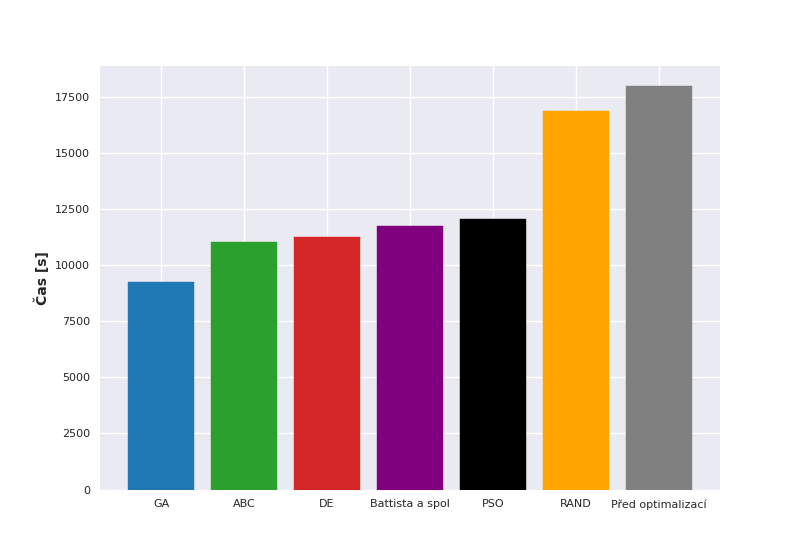
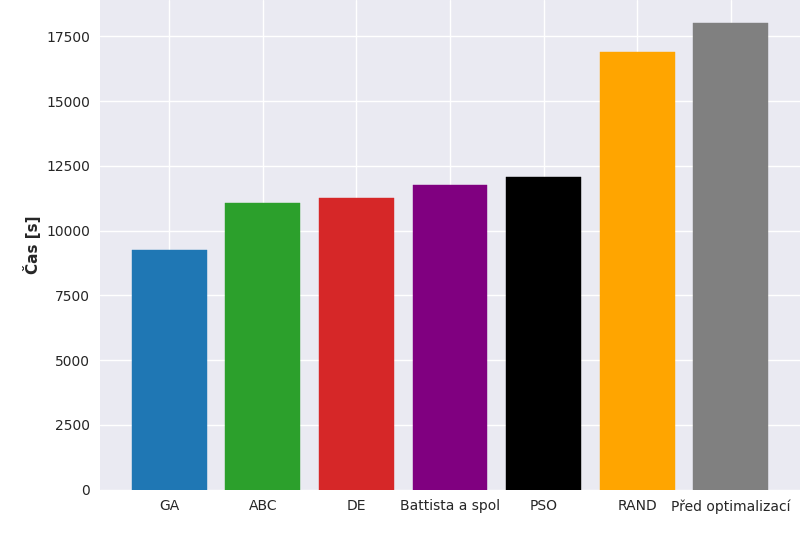
new data

diff --git a/utils/plotToolTrain.py b/utils/plotToolTrain.py
@@ -2,19 +2,12 @@ import matplotlib.pyplot as plt
 
 plt.style.use('seaborn')
 
-plt.rcParams['font.family'] = 'serif'
 plt.rcParams['font.serif'] = 'Ubuntu'
 plt.rcParams['font.monospace'] = 'Ubuntu Mono'
-plt.rcParams['font.size'] = 10
-plt.rcParams['axes.labelsize'] = 10
 plt.rcParams['axes.labelweight'] = 'bold'
-plt.rcParams['axes.titlesize'] = 10
-plt.rcParams['xtick.labelsize'] = 8
-plt.rcParams['ytick.labelsize'] = 8
-plt.rcParams['legend.fontsize'] = 10
-plt.rcParams['figure.titlesize'] = 12
 
 fig, ax = plt.subplots()
+plt.subplots_adjust(right=1, top=1, wspace=0, hspace=0)
 
 ga = [17422.3, 16349.5, 16349.5, 16272, 16272, 15869, 15869, 15869, 15584.5, 15039.3, 15039.3, 15039.3, 14757.3, 14757.3, 14757.3, 14551.8, 14551.8, 13138.4, 13138.4, 13138.4, 13138.4, 13138.4, 13138.4, 13138.4, 13138.4, 13138.4, 13138.4, 13138.4, 13014.1, 12758.4, 12758.4, 12758.4, 12758.4, 12758.4, 12713.9, 12365.9, 12204.2, 11897.7, 11897.7, 11788.3, 11546.7, 11546.7, 11481.7, 11266.8, 11265.1, 11037.5, 11037.5, 10954.6, 10606.1, 10606.1, 10606.1, 10549.5, 10549.5, 10466, 10389.4, 10389.4, 10345.8, 10345.5, 10245.7, 10245.7, 10245.7, 10212.2, 10212.2, 10212.2, 10212.2, 10212.2, 10194.4, 10194.4, 10194.4, 10194.4, 10194.4, 10174.9, 10114.4, 10114.4, 10114.4, 10114.4, 10114.4, 10114.4, 10114.4, 10114.4, 10114.4, 10102.4, 10090.3, 10089.5, 10089.5, 10089.5, 10089.5, 10077.1, 10077.1, 10077.1, 10077.1, 10077.1, 10076.7, 10076.7, 10076.7, 10076.7, 10076.7, 10076.7, 10076.7, 10076.7, 10076.7, 10076.7, 10076.7, 10076.7, 10076.7, 10076.7, 10076.7, 10076.7, 10076.7, 10076.7, 10076.7, 10076.7, 10076.7, 10076.7, 10076.7, 10076.7, 10076.7, 10076.7, 10076.7, 10076.7, 10076.7, 10076.7, 10076.7, 10076.7, 10076.7, 10076.7, 10076.7, 10076.7, 10076.7, 10076.7, 10076.7, 10076.7, 10076.7, 10076.7, 10076.7, 10076.7, 10076.7, 10076.7, 10076.7, 10076.7, 10076.7, 10076.7, 10076.7, 10070.1, 10070.1, 10070.1, 10070.1, 10070.1, 10070.1, 10069.5, 10062.3, 10062.3, 10062.3, 10062.3, 10062.3, 10062.3, 10037.6, 10037.6, 10035.6, 10035.6, 10002.9, 10002.9, 10002.9, 9959.48, 9959.48, 9958.65, 9958.65, 9958.65, 9958.65, 9928, 9928, 9928, 9928, 9928, 9928, 9918.05, 9918.05, 9918.05, 9918.05, 9918.05, 9918.05, 9918.05, 9918.05, 9918.05, 9918.05, 9918.05, 9918.05, 9918.05, 9918.05, 9918.05, 9918.05, 9918.05, 9918.05, 9918.05, 9918.05, 9918.05, 9918.05, 9918.05, 9918.05, 9918.05, 9918.05, 9918.05, 9918.05, 9918.05, 9918.05, 9918.05, 9918.05, 9918.05, 9918.05, 9898.63, 9898.63, 9898.55, 9884.98, 9884.98, 9872.45, 9855.63, 9838.88, 9838.88, 9833.65, 9827.28, 9795.5, 9791.35, 9787.35, 9781.48, 9778.03, 9778.03, 9778.03, 9774.8, 9762.48, 9761.03, 9761.03, 9742.65, 9742.65, 9741.78, 9740.28, 9740.28, 9740.28, 9739.25, 9734.23, 9734.23, 9734.23, 9734.23, 9734.23, 9734.23, 9734.23, 9734.23, 9734.23, 9734.23, 9734.23, 9734.23, 9734.23, 9734.23, 9734.23, 9734.23, 9734.23, 9734.23, 9734.23, 9734.23, 9734.23, 9734.23, 9734.23, 9734.23, 9734.23, 9734.23, 9734.23, 9734.23, 9734.23, 9734.23, 9734.23, 9734.23, 9734.23, 9734.23, 9734.23, 9734.23, 9734.23, 9734.23, 9734.23, 9734.23, 9734.23, 9734.23, 9734.23, 9734.23, 9734.23, 9734.23, 9734.23, 9734.23, 9734.23, 9734.23, 9734.23, 9734.23, 9734.23, 9734.23, 9734.23, 9734.23, 9734.23, 9734.23, 9734.23, 9734.23, 9734.23, 9734.23, 9734.23, 9734.23, 9734.23, 9734.23, 9734.23, 9734.23, 9734.23, 9734.23, 9734.23, 9734.23, 9734.23, 9734.23, 9734.23, 9734.23, 9734.23, 9734.23, 9734.23, 9734.23, 9734.23, 9734.23, 9734.23, 9734.23, 9734.23, 9734.23, 9734.23, 9734.23, 9734.23, 9734.23, 9734.23, 9734.23, 9734.23, 9734.23, 9734.23, 9734.23, 9734.23, 9734.23, 9734.23, 9734.23, 9734.23, 9734.23, 9734.23, 9734.23, 9734.23, 9734.23, 9734.23, 9734.23, 9734.23, 9734.23, 9734.23, 9734.23, 9734.23, 9734.23, 9734.23, 9734.23, 9734.23, 9734.23, 9734.23, 9734.23, 9734.23, 9734.23, 9734.23, 9734.23, 9734.23, 9734.23, 9734.23, 9734.23, 9734.23, 9734.23, 9734.23, 9727.2, 9727.2, 9724.9, 9711.05, 9707.7, 9707.7, 9707.7, 9707.7, 9707.7, 9707.7, 9707.7, 9707.7, 9707.7, 9707.7, 9707.7, 9707.7, 9707.7, 9707.7, 9707.7, 9707.7, 9707.7, 9707.7, 9707.7, 9707.7, 9707.7, 9707.7, 9707.7, 9707.7, 9707.7, 9707.7, 9707.7, 9707.7, 9707.7, 9707.7, 9707.7, 9707.7, 9707.7, 9707.7, 9707.7, 9707.7, 9707.7, 9707.7, 9707.7, 9707.7, 9707.7, 9707.7, 9706.58, 9706.58, 9706.58, 9706.58, 9706.58, 9702.68, 9702.68, 9702.68, 9702.68, 9702.68, 9702.68, 9702.68, 9702.68, 9702.68, 9702.68, 9702.68, 9702.68, 9702.68, 9702.68, 9702.68, 9702.68, 9702.68, 9702.68, 9702.68, 9702.68, 9702.68, 9702.68, 9702.68, 9702.68, 9702.68, 9702.68, 9702.68, 9702.68, 9702.68, 9702.68, 9702.68, 9702.68, 9702.68, 9702.68, 9702.68, 9702.68, 9702.68, 9702.68, 9702.68, 9702.68, 9702.68, 9702.68, 9702.68, 9702.68, 9702.68, 9702.68, 9702.68, 9702.68, 9702.68, 9702.68, 9702.68, 9702.68, 9702.68, 9702.68, 9702.68, 9702.68, 9702.68, 9702.68, 9702.68, 9702.68, 9702.68, 9702.68, 9702.68, 9702.68, 9702.68, 9702.68, 9702.68, 9702.68, 9702.68, 9702.68, 9702.68, 9702.68, 9702.68, 9702.68, 9702.68, 9702.68, 9702.68, 9702.68, 9702.68, 9700.1, 9700.1, 9700.1, 9700.1, 9700.1, 9700.1, 9700.1, 9700.1, 9700.1, 9700.1, 9700.1, 9700.1, 9700.1, 9700.1, 9700.1, 9700.1, 9700.1, 9700.1, 9700.1, 9700.1, 9700.1, 9700.1, 9700.1, 9700.1, 9700.1, 9700.1, 9700.1, 9700.1, 9700.1, 9700.1, 9700.1, 9700.1, 9700.1, 9700.1, 9700.1, 9700.1, 9700.1, 9700.1, 9700.1, 9700.1, 9700.1, 9700.1, 9700.1, 9700.1, 9700.1, 9700.1, 9700.1, 9700.1, 9700.1, 9700.1, 9700.1, 9700.1, 9700.1, 9700.1, 9700.1, 9700.1, 9700.1, 9700.1, 9700.1, 9700.1, 9689.63, 9689.63, 9689.63, 9689.63, 9689.63, 9689.63, 9689.63, 9689.63, 9689.63, 9689.63, 9689.25, 9689.25, 9689.25, 9689.25, 9689.25, 9689.25, 9689.25, 9689.25, 9689.25, 9689.25, 9689.25, 9689.25, 9689.25, 9689.25, 9689.25, 9689.25, 9689.25, 9689.25, 9689.25, 9689.25, 9689.25, 9689.25, 9689.25, 9689.25, 9689.25, 9689.25, 9689.25, 9689.25, 9689.25, 9689.25, 9689.25, 9689.25, 9688.73, 9688.73, 9688.73, 9686.25, 9686.25, 9686.25, 9686.25, 9686.25, 9686.25, 9686.25, 9686.25, 9686.25, 9686.25, 9686.25, 9686.25, 9686.25, 9686.25, 9686.25, 9686.25, 9686.25, 9686.25, 9686.25, 9686.25, 9686.25, 9686.25, 9686.25, 9686.25, 9686.25, 9686.25, 9686.25, 9686.25, 9686.25, 9679.38, 9679.38, 9679.38, 9679.38, 9679.38, 9679.38, 9679.38, 9679.38, 9679.38, 9679.38, 9679.38, 9679.38, 9679.38, 9679.38, 9679.38, 9679.38, 9679.38, 9679.38, 9679.38, 9679.38, 9679.38, 9679.38, 9679.38, 9679.38, 9679.38, 9679.38, 9679.38, 9679.38, 9679.38, 9679.38, 9679.38, 9679.38, 9679.38, 9679.38, 9679.38, 9679.38, 9679.38, 9679.38, 9679.38, 9679.38, 9679.38, 9679.38, 9679.38, 9679.38, 9679.38, 9679.38, 9676.98, 9676.98, 9676.98, 9676.98, 9676.98, 9676.98, 9676.98, 9676.98, 9676.98, 9676.98, 9676.98, 9676.98, 9676.98, 9676.98, 9676.98, 9676.98, 9676.98, 9676.98, 9676.98, 9676.98, 9676.98, 9676.98, 9676.98, 9676.98, 9676.98, 9676.98, 9676.98, 9676.98, 9676.98, 9676.98, 9676.98, 9676.98, 9676.98, 9676.98, 9676.98, 9676.98, 9676.98, 9676.98, 9676.98, 9676.98, 9676.98, 9676.98, 9676.98, 9676.98, 9676.98, 9676.98, 9676.98, 9676.98, 9676.98, 9676.98, 9676.98, 9676.98, 9676.98, 9676.98, 9676.98, 9676.98, 9676.98, 9676.98, 9676.98, 9676.98, 9676.98, 9676.98, 9676.98, 9676.98, 9676.98, 9676.98, 9676.98, 9676.98, 9676.98, 9676.98, 9676.98, 9676.98, 9676.98, 9676.98, 9676.98, 9676.98, 9676.98, 9676.98, 9676.98, 9676.98, 9676.98, 9676.98, 9676.98, 9676.98, 9676.98, 9676.98, 9676.98, 9676.98, 9676.98, 9676.98, 9676.98, 9676.98, 9676.98, 9676.98, 9676.98, 9676.98, 9676.98, 9676.98, 9676.98, 9676.98, 9676.98, 9676.98, 9676.98, 9676.98, 9676.98, 9676.98, 9676.98, 9676.98, 9676.98, 9676.98, 9676.98, 9676.98, 9676.98, 9676.98, 9676.98, 9676.98, 9676.98, 9676.98, 9676.98, 9676.98, 9676.98, 9676.98, 9676.98, 9676.98, 9676.98, 9676.98, 9676.98, 9676.98, 9676.98, 9676.98, 9676.98, 9676.98, 9676.98, 9676.98, 9676.98, 9676.98, 9676.98, 9676.98, 9676.98, 9676.98, 9676.98, 9676.98, 9676.98, 9676.98, 9676.98, 9676.98, 9676.98, 9676.98, 9676.98, 9676.98, 9676.98, 9676.98, 9676.98, 9676.98, 9676.98, 9676.98, 9676.98, 9676.98, 9676.98, 9676.98, 9676.98, 9676.98, 9676.98, 9676.98, 9676.98, 9676.98, 9676.98, 9676.98, 9676.98, 9676.98, 9676.98, 9676.98, 9676.98, 9676.98, 9676.98, 9676.98, 9676.98, 9676.98, 9676.98, 9676.98, 9676.98, 9676.98, 9676.98, 9676.98, 9676.98, 9676.98, 9676.98, 9676.98, 9676.98, 9676.98, 9676.98, 9676.98, 9676.98, 9676.98, 9676.98, 9676.98, 9676.98, 9676.98, 9676.98, 9676.98, 9676.98, 9676.98, 9676.98, 9676.98, 9676.98, 9676.98, 9676.98, 9676.98, 9676.98, 9676.98, 9676.98, 9676.98, 9676.98, 9676.98, 9676.98, 9676.98, 9676.98, 9676.98, 9676.98, 9676.98, 9676.98, 9676.98, 9676.98, 9676.98, 9676.98, 9676.98, 9676.98, 9676.98, 9676.98, 9676.98, 9676.98, 9676.98, 9676.98, 9676.98, 9676.98, 9676.98, 9676.98, 9676.98, 9676.98, 9676.98, 9676.98, 9676.98, 9676.98, 9676.98, 9676.98, 9676.98, 9676.98, 9676.98, 9676.98, 9676.98, 9676.98, 9676.98, 9676.98, 9676.98, 9676.98, 9676.98, 9676.98, 9676.98, 9676.98, 9676.98, 9676.98, 9676.98, 9676.98, 9676.98, 9676.98, 9676.98, 9676.98, 9676.98, 9676.98, 9676.98, 9676.98, 9676.98, 9676.98, 9676.98, 9676.98, 9676.98, 9676.98, 9676.98, 9676.98, 9676.98, 9676.98, 9676.98, 9676.98, 9676.98, 9676.98, 9676.98, 9676.98, 9676.98, 9676.98, 9676.98, 9676.98, 9676.98, 9676.98, 9676.98, 9676.98, 9676.98, 9676.98, 9676.98, 9676.98, 9676.98, 9676.98, 9676.98, 9676.98, 9676.98, 9676.98, 9676.98, 9676.98, 9676.98, 9676.98, 9676.98, 9676.98, 9676.98, 9676.98, 9676.98, 9676.98, 9676.98, 9676.98, 9676.98, 9676.98, 9676.98, 9676.98]
 ga_r = range(0, 1000)

diff --git a/utils/plotToolTrain5001000.py b/utils/plotToolTrain5001000.py
@@ -2,19 +2,12 @@ import matplotlib.pyplot as plt
 
 plt.style.use('seaborn')
 
-plt.rcParams['font.family'] = 'serif'
 plt.rcParams['font.serif'] = 'Ubuntu'
 plt.rcParams['font.monospace'] = 'Ubuntu Mono'
-plt.rcParams['font.size'] = 10
-plt.rcParams['axes.labelsize'] = 10
 plt.rcParams['axes.labelweight'] = 'bold'
-plt.rcParams['axes.titlesize'] = 10
-plt.rcParams['xtick.labelsize'] = 8
-plt.rcParams['ytick.labelsize'] = 8
-plt.rcParams['legend.fontsize'] = 10
-plt.rcParams['figure.titlesize'] = 12
 
 fig, ax = plt.subplots()
+plt.subplots_adjust(right=1, top=1, wspace=0, hspace=0)
 
 ga = [109564, 106395, 105964, 105584, 105370, 105335, 105135, 105094, 104865, 104199, 104199, 104199, 104199, 104199, 104199, 103909, 103909, 103909, 103909, 103909, 103169, 102972, 102972, 102972, 102972, 102972, 102941, 102941, 102941, 102941, 102941, 102877, 102877, 102877, 102877, 102272, 101728, 101728, 101728, 101728, 101728, 101728, 101728, 101728, 101728, 101694, 101694, 101575, 101575, 101575, 101549, 101549, 101455, 101418, 101288, 101019, 101019, 101019, 100812, 100772, 100772, 100699, 100699, 100699, 100699, 100699, 99922, 99922, 99922, 99884, 99543, 99489, 99489, 99483, 99483, 99483, 99483, 99483, 99483, 99483, 99483, 99483, 99483, 99271, 99200, 99200, 99200, 99200, 99171, 99171, 98414, 98414, 98414, 98113, 97931, 97749, 97744, 97744, 97744, 97593, 97593, 97593, 97593, 97255, 96980, 96980, 96980, 96616, 96616, 96616, 96462, 96462, 96462, 96462, 96462, 96462, 96462, 96462, 96462, 96462, 96462, 96462, 96462, 96462, 96462, 96462, 96462, 96462, 95829, 95829, 95829, 95829, 95829, 95829, 95829, 95829, 95829, 95829, 95829, 95826, 95826, 95826, 95826, 95826, 95826, 95826, 95826, 95826, 95600, 95599, 94803, 94803, 94803, 94803, 94803, 94803, 94803, 94803, 94803, 94803, 94803, 94803, 94803, 94803, 94803, 94803, 94803, 94803, 94803, 94803, 94803, 94803, 94803, 94803, 94803, 94803, 94803, 94803, 94803, 94803, 94803, 94803, 94637, 94637, 94457, 94457, 94457, 94457, 94457, 94299, 94299, 94299, 94059, 94059, 93783, 93783, 93783, 93783, 93451, 93451, 93451, 93451, 93451, 93451, 93451, 93451, 93451, 93451, 93451, 93451, 93451, 93451, 93418, 93418, 93418, 93418, 93418, 93418, 93342, 93342, 93342, 93342, 93342, 93342, 93328, 93319, 93136, 93136, 93136, 93136, 93129, 92863, 92863, 92863, 92863, 92863, 92863, 92863, 92863, 92863, 92804, 92709, 92709, 92602, 92602, 92498, 92403, 92403, 92403, 92403, 92335, 92335, 92296, 92296, 92296, 92296, 92246, 92246, 92246, 92246, 92196, 92196, 92196, 92196, 92196, 92180, 92160, 92160, 92085, 92059, 92058, 92043, 91908, 91908, 91908, 91908, 91908, 91908, 91908, 91908, 91908, 91907, 91907, 91907, 91907, 91907, 91907, 91907, 91907, 91905, 91903, 91903, 91903, 91903, 91903, 91903, 91903, 91903, 91902, 91902, 91902, 91902, 91902, 91902, 91902, 91902, 91902, 91902, 91902, 91902, 91902, 91901, 91848, 91848, 91399, 91230, 91230, 91230, 91230, 91195, 91068, 91068, 90825, 90825, 90825, 90825, 90609, 90609, 90609, 90609, 90257, 90257, 90257, 90257, 90257, 90257, 90257, 90088, 90088, 90088, 90088, 90088, 90088, 90073, 90073, 90054, 90043, 90020, 90020, 90020, 90018, 89987, 89987, 89980, 89980, 89972, 89972, 89972, 89967, 89967, 89967, 89967, 89967, 89967, 89967, 89961, 89961, 89961, 89961, 89961, 89961, 89961, 89961, 89961, 89955, 89954, 89954, 89954, 89954, 89954, 89954, 89951, 89951, 89951, 89951, 89951, 89951, 89951, 89951, 89951, 89951, 89951, 89951, 89951, 89951, 89951, 89951, 89951, 89951, 89951, 89951, 89951, 89951, 89951, 89951, 89951, 89951, 89951, 89951, 89951, 89951, 89951, 89951, 89951, 89951, 89951, 89951, 89951, 89951, 89951, 89951, 89951, 89951, 89951, 89951, 89951, 89951, 89951, 89951, 89951, 89951, 89951, 89951, 89951, 89951, 89951, 89951, 89951, 89951, 89951, 89951, 89951, 89951, 89951, 89951, 89951, 89951, 89951, 89915, 89889, 89889, 89889, 89856, 89842, 89842, 89842, 89776, 89776, 89776, 89763, 89763, 89763, 89763, 89763, 89763, 89763, 89755, 89755, 89753, 89753, 89753, 89753, 89753, 89753, 89753, 89753, 89753, 89753, 89753, 89753, 89753, 89753, 89753, 89753, 89753, 89753, 89753, 89753, 89753, 89753, 89753, 89753, 89753, 89753, 89753, 89753, 89753, 89753, 89753, 89753, 89753, 89753, 89753, 89753, 89753, 89753, 89753, 89747, 89747, 89747, 89747, 89747, 89747, 89747, 89747, 89747, 89747, 89747, 89747, 89747, 89747, 89747, 89747, 89747, 89747, 89747, 89747, 89747, 89747, 89747, 89747, 89747, 89747, 89747, 89747, 89747, 89747, 89747, 89747, 89747, 89747, 89747, 89747, 89747, 89747, 89747, 89747, 89721, 89721, 89709, 89701, 89701, 89701, 89701, 89696, 89696, 89684, 89676, 89676, 89671, 89671, 89663, 89655, 89642, 89642, 89642, 89642, 89642, 89642, 89642, 89642, 89642, 89642, 89642, 89642, 89642, 89642, 89642, 89642, 89642, 89642, 89642, 89642, 89642, 89642, 89642, 89642, 89642, 89642, 89642, 89642, 89642, 89642, 89642, 89642, 89642, 89642, 89642, 89642, 89642, 89642, 89642, 89642, 89642, 89642, 89642, 89642, 89642, 89642, 89642, 89642, 89642, 89642, 89642, 89642, 89642, 89642, 89642, 89642, 89642, 89642, 89642, 89642, 89642, 89642, 89642, 89642, 89642, 89642, 89642, 89642, 89642, 89642, 89642, 89642, 89642, 89642, 89642, 89642, 89642, 89642, 89642, 89642, 89642, 89642, 89642, 89642, 89642, 89642, 89642, 89642, 89642, 89642, 89642, 89642, 89642, 89642, 89642, 89642, 89642, 89642, 89642, 89642, 89642, 89642, 89642, 89642, 89642, 89642, 89642, 89642, 89642, 89642, 89642, 89642, 89642, 89642, 89642, 89642, 89642, 89642, 89642, 89642, 89642, 89642, 89642, 89642, 89642, 89642, 89642, 89642, 89642, 89642, 89642, 89642, 89642, 89642, 89642, 89642, 89642, 89642, 89642, 89642, 89642, 89642, 89642, 89642, 89642, 89642, 89642, 89642, 89642, 89642, 89642, 89642, 89642, 89642, 89642, 89642, 89642, 89642, 89642, 89642, 89642, 89642, 89642, 89642, 89642, 89642, 89642, 89642, 89642, 89642, 89642, 89642, 89642, 89642, 89642, 89528, 89528, 89528, 89525, 89522, 89459, 89459, 89455, 89418, 89418, 89412, 89412, 89412, 89392, 89381, 89376, 89376, 89376, 89376, 89376, 89376, 89376, 89376, 89376, 89376, 89375, 89375, 89375, 89375, 89375, 89375, 89375, 89375, 89375, 89375, 89375, 89375, 89375, 89375, 89375, 89375, 89375, 89375, 89375, 89375, 89375, 89375, 89375, 89375, 89375, 89375, 89375, 89375, 89375, 89375, 89375, 89375, 89375, 89375, 89375, 89375, 89375, 89375, 89375, 89375, 89375, 89375, 89375, 89375, 89375, 89375, 89375, 89375, 89375, 89375, 89375, 89375, 89375, 89375, 89375, 89375, 89375, 89375, 89375, 89375, 89375, 89375, 89375, 89087, 89087, 89087, 89087, 89085, 89084, 89000, 89000, 89000, 89000, 88980, 88880, 88880, 88880, 88844, 88844, 88836, 88755, 88755, 88747, 88681, 88629, 88629, 88629, 88629, 88629, 88629, 88625, 88625, 88625, 88625, 88625, 88625, 88625, 88625, 88625, 88625, 88625, 88625, 88625, 88625, 88625, 88625, 88625, 88625, 88625, 88625, 88625, 88625, 88625, 88625, 88625, 88625, 88625, 88625, 88625, 88622, 88622, 88622, 88622, 88622, 88621, 88621, 88595, 88586, 88561, 88561, 88561, 88520, 88488, 88488, 88476, 88476, 88476, 88476, 88472, 88460, 88460, 88458, 88447, 88447, 88447, 88447, 88447, 88447, 88447, 88447, 88447, 88447, 88447, 88447, 88447, 88447, 88447, 88447, 88447, 88447, 88447, 88447, 88447, 88447, 88447, 88447, 88447, 88447, 88447, 88447, 88447, 88447, 88447, 88447, 88447, 88447, 88447, 88447, 88447, 88447, 88447, 88447, 88447, 88447, 88447, 88447, 88426, 88425, 88425, 88425, 88369, 88365, 88356, 88336, 88336, 88336, 88336, 88336, 88336, 88336, 88336, 88336, 88336, 88336, 88336, 88336, 88336, 88336, 88336, 88336, 88336, 88336, 88336, 88336, 88336, 88336, 88336, 88336, 88336, 88336, 88336, 88336, 88336, 88336, 88336, 88336, 88336, 88336, 88336, 88336, 88336, 88336, 88336, 88336, 88336, 88336, 88336]
 ga_r = range(0, 1000)

diff --git a/utils/plotPathFinder.py b/utils/plotPathFinder.py
@@ -2,19 +2,12 @@ import matplotlib.pyplot as plt
 
 plt.style.use('seaborn')
 
-plt.rcParams['font.family'] = 'serif'
 plt.rcParams['font.serif'] = 'Ubuntu'
 plt.rcParams['font.monospace'] = 'Ubuntu Mono'
-plt.rcParams['font.size'] = 10
-plt.rcParams['axes.labelsize'] = 10
 plt.rcParams['axes.labelweight'] = 'bold'
-plt.rcParams['axes.titlesize'] = 10
-plt.rcParams['xtick.labelsize'] = 8
-plt.rcParams['ytick.labelsize'] = 8
-plt.rcParams['legend.fontsize'] = 10
-plt.rcParams['figure.titlesize'] = 12
 
 fig, ax = plt.subplots()
+plt.subplots_adjust(right=1, top=1, wspace=0, hspace=0)
 
 pf = [6842, 6820, 6820, 6820, 6402, 6402, 6402, 6402, 6402, 6402, 6402, 6402, 6402, 6166, 6166, 6166, 5788, 5788, 5788, 5788, 5788, 5788, 5788, 5788, 5788, 5788, 5788, 5788, 5788, 5788, 5788, 5788, 5788, 5788, 5788, 5788, 5788, 5788, 5788, 5788, 5788, 5788, 5788, 5788, 5788, 5788, 5788, 5788, 5788, 5788, 5788, 5788, 5788, 5788, 5788, 5788, 5788, 5788, 5788, 5788, 5788, 5788, 5788, 5788, 5788, 5788, 5788, 5558, 5558, 5558, 5558, 5558, 5558, 5558, 5558, 5558, 5558, 5558, 5558, 5558, 5558, 5536, 5536, 5536, 5536, 5536, 5536, 5536, 5536, 5536, 5536, 5536, 5536, 5536, 5536, 5536, 5536, 5536, 5536, 5536, 5536, 5536, 5536, 5536, 5536, 5536, 5536, 5536, 5536, 5536, 5536, 5354, 5354, 5354, 5354, 5354, 5354, 5354, 5354, 5354, 5354, 5354, 5354, 5354, 5354, 5354, 5354, 5354, 5354, 5354, 5354, 5354, 5354, 5354, 5354, 5354, 5354, 5354, 5314, 5188, 5188, 5188, 5188, 5188, 5188, 5188, 5188, 5188, 5188, 5188, 5188, 5188, 5188, 5188, 5188, 5188, 5188, 5188, 5188, 5188, 5188, 5188, 5188, 5188, 5188, 5188, 5188, 5188, 5188, 5188, 5188, 4942, 4942, 4942, 4942, 4942, 4942, 4942, 4942, 4942, 4942, 4942, 4942, 4942, 4942, 4942, 4942, 4942, 4942, 4942, 4942, 4942, 4938, 4938, 4938, 4938, 4938, 4938, 4938, 4938, 4938, 4938, 4938, 4938, 4938, 4938, 4938, 4938, 4938, 4938, 4938, 4938, 4938, 4938, 4938, 4938, 4938, 4938, 4938, 4938, 4938, 4938, 4938, 4938, 4938, 4938, 4938, 4938, 4938, 4938, 4938, 4938, 4910, 4910, 4910, 4910, 4910, 4910, 4910, 4910, 4910, 4910, 4910, 4910, 4910, 4910, 4910, 4910, 4910, 4886, 4886, 4886, 4886, 4886, 4886, 4886, 4886, 4886, 4886, 4886, 4886, 4886, 4886, 4886, 4886, 4886, 4886, 4886, 4886, 4886, 4886, 4886, 4886, 4886, 4886, 4886, 4886, 4886, 4886, 4886, 4886, 4886, 4886, 4886, 4886, 4886, 4886, 4886, 4886, 4886, 4886, 4886, 4886, 4886, 4886, 4886, 4886, 4886, 4886, 4886, 4886, 4886, 4886, 4886, 4886, 4886, 4886, 4886, 4886, 4886, 4886, 4886, 4886, 4886, 4886, 4886, 4886, 4886, 4886, 4886, 4886, 4886, 4886, 4886, 4886, 4886, 4886, 4886, 4886, 4886, 4886, 4886, 4886, 4886, 4886, 4886, 4886, 4886, 4886, 4886, 4886, 4886, 4886, 4886, 4886, 4886, 4886, 4886, 4886, 4886, 4886, 4886, 4886, 4886, 4886, 4886, 4886, 4886, 4886, 4886, 4886, 4886, 4886, 4886, 4886, 4886, 4886, 4886, 4886, 4886, 4886, 4886, 4886, 4886, 4886, 4886, 4886, 4886, 4886, 4886, 4886, 4886, 4886, 4886, 4886, 4886, 4886, 4886, 4886, 4886, 4886, 4886, 4886, 4886, 4886, 4886, 4886, 4886, 4886, 4886, 4886, 4886, 4886, 4886, 4886, 4886, 4886, 4886, 4886, 4886, 4886, 4886, 4886, 4886, 4886, 4886, 4886, 4886, 4886, 4886, 4886, 4886, 4886, 4886, 4886, 4886, 4886, 4886, 4886, 4886, 4886, 4886, 4886, 4886, 4886, 4886, 4886, 4886, 4886, 4886, 4886, 4886, 4886, 4886, 4886, 4886, 4886, 4886, 4886, 4886, 4886, 4886, 4886, 4886, 4886, 4886, 4886, 4886, 4886, 4886, 4886, 4886, 4886, 4886, 4886, 4886, 4886, 4886, 4886, 4886, 4886, 4886, 4886, 4886, 4886, 4886, 4886, 4886, 4886, 4886, 4886, 4886, 4886, 4886, 4886, 4886, 4886, 4886, 4886, 4886, 4886, 4886, 4886, 4886, 4886, 4886, 4886, 4886, 4886, 4886, 4886, 4886, 4886, 4886, 4886, 4886, 4886, 4886, 4886, 4886, 4886, 4886, 4886, 4886, 4886, 4886, 4886, 4886, 4886, 4886, 4886, 4886, 4886, 4886, 4886, 4886, 4886, 4886, 4886, 4886, 4886, 4886, 4886, 4886, 4886, 4886, 4886, 4886, 4886, 4886, 4886, 4886, 4886, 4886, 4886, 4886, 4886, 4886, 4886, 4886, 4886, 4886, 4886, 4886, 4886, 4886, 4886, 4886, 4886, 4886, 4886, 4886, 4886, 4886, 4886, 4886, 4886, 4886, 4886, 4886, 4886, 4886, 4886, 4886, 4886, 4886, 4886, 4886, 4886, 4886, 4886, 4886, 4886, 4886, 4886, 4886, 4886, 4886, 4886, 4886, 4886, 4886, 4886, 4886, 4886, 4886, 4886, 4886, 4886, 4886, 4886, 4886, 4886, 4886, 4886, 4886, 4886, 4886, 4886, 4886, 4886, 4886, 4886, 4886, 4886, 4886, 4886, 4886, 4886, 4886, 4886, 4886, 4886, 4886, 4886, 4886, 4886, 4886, 4886, 4886, 4886, 4886, 4886, 4886, 4886, 4886, 4886, 4886, 4886, 4886, 4886, 4886, 4886, 4886, 4886, 4886, 4886, 4886, 4886, 4886, 4886, 4886, 4886, 4886, 4886, 4886, 4886, 4886, 4886, 4886, 4886, 4886, 4886, 4886, 4886, 4886, 4886, 4886, 4886, 4886, 4886, 4886, 4886, 4886, 4886, 4886, 4886, 4886, 4886, 4886, 4886, 4886, 4886, 4886, 4886, 4886, 4886, 4886, 4886, 4886, 4886, 4886, 4886, 4886, 4886, 4886, 4886, 4886, 4886, 4886, 4886, 4886, 4886, 4886, 4886, 4886, 4886, 4886, 4886, 4886, 4886, 4886, 4886, 4886, 4886, 4886, 4886, 4886, 4886, 4886, 4886, 4886, 4886, 4886, 4886, 4886, 4886, 4886, 4886, 4886, 4886, 4886, 4886, 4886, 4886, 4886, 4886, 4886, 4886, 4886, 4886, 4886, 4886, 4886, 4886, 4886, 4886, 4886, 4886, 4886, 4886, 4886, 4886, 4886, 4886, 4886, 4886, 4886, 4886, 4886, 4886, 4886, 4886, 4886, 4886, 4886, 4886, 4886, 4886, 4886, 4886, 4886, 4886, 4886, 4886, 4886, 4886, 4886, 4886, 4886, 4886, 4886, 4886, 4886, 4886, 4886, 4886, 4886, 4886, 4886, 4886, 4886, 4886, 4886, 4886, 4886, 4886, 4886, 4886, 4886, 4886, 4886, 4886, 4886, 4886, 4886, 4886, 4886, 4886, 4886, 4886, 4886, 4886, 4886, 4886, 4886, 4886, 4886, 4886, 4886, 4886, 4886, 4886, 4886, 4886, 4886, 4886, 4886, 4886, 4886, 4886, 4886, 4886, 4886, 4886, 4886, 4886, 4886, 4886, 4886, 4886, 4886, 4886, 4886, 4886, 4886, 4886, 4886, 4886, 4886, 4886, 4886, 4886, 4886, 4886, 4886, 4886, 4886, 4886, 4886, 4886, 4886, 4886, 4886, 4886, 4886, 4886, 4886, 4886, 4886, 4886, 4886, 4886, 4886, 4886, 4886, 4886, 4886, 4886, 4886, 4886, 4886, 4886, 4886, 4886, 4886, 4886, 4886, 4886, 4886, 4886, 4886, 4886, 4886, 4886, 4886, 4886, 4886, 4886, 4886, 4886, 4886, 4886, 4886, 4886, 4886, 4886, 4886, 4886, 4886, 4886, 4886, 4886, 4886, 4886, 4886, 4886, 4886, 4886, 4886, 4886, 4886, 4886, 4886, 4886, 4886, 4886, 4886, 4886, 4886, 4886, 4886, 4886, 4886, 4886, 4886, 4886, 4886, 4886, 4886, 4886, 4886, 4886, 4886, 4886, 4886, 4886, 4886, 4886, 4886, 4886, 4886, 4886, 4886, 4886, 4886, 4886, 4886, 4886, 4886, 4886, 4886, 4886, 4886, 4886, 4886, 4886, 4886, 4886, 4886, 4886, 4886, 4886, 4886, 4886, 4886, 4886, 4886, 4886, 4886, 4886, 4886, 4886, 4886, 4886, 4886, 4886, 4886, 4886, 4886, 4886, 4886, 4886, 4886, 4886, 4886, 4886, 4886, 4886, 4886]
 pf_r = range(0, 1000)

diff --git a/utils/plotTrials.py b/utils/plotTrials.py
@@ -2,19 +2,12 @@ import matplotlib.pyplot as plt
 
 plt.style.use('seaborn')
 
-plt.rcParams['font.family'] = 'serif'
 plt.rcParams['font.serif'] = 'Ubuntu'
 plt.rcParams['font.monospace'] = 'Ubuntu Mono'
-plt.rcParams['font.size'] = 10
-plt.rcParams['axes.labelsize'] = 10
 plt.rcParams['axes.labelweight'] = 'bold'
-plt.rcParams['axes.titlesize'] = 10
-plt.rcParams['xtick.labelsize'] = 8
-plt.rcParams['ytick.labelsize'] = 8
-plt.rcParams['legend.fontsize'] = 10
-plt.rcParams['figure.titlesize'] = 12
 
 fig, ax = plt.subplots()
+plt.subplots_adjust(right=1, top=1, wspace=0, hspace=0)
 
 no_trial = [108973, 106345, 106170, 105799, 105799, 105633, 104748, 104748, 104748, 104748, 104595, 103764, 103764, 103764, 103764, 103461, 103461, 103323, 103323, 103111, 103109, 103109, 103109, 102966, 102966, 102966, 102966, 102936, 102836, 102836, 102657, 102657, 102657, 102657, 102657, 102506, 102506, 102506, 102392, 102392, 102277, 102277, 102277, 102149, 102148, 102090, 101898, 101898, 101898, 101898, 101801, 101801, 101801, 101795, 101733, 101733, 101733, 101651, 101651, 101606, 101606, 101606, 101560, 101560, 101448, 101448, 101448, 101448, 101346, 101346, 101346, 101346, 101317, 101317, 101317, 101275, 101275, 101275, 101252, 101230, 101230, 101230, 101230, 101230, 101214, 101214, 101214, 101214, 101214, 101214, 101214, 101214, 101214, 101214, 101214, 101214, 101214, 101214, 101214, 101214, 101214, 101214, 101214, 101214, 101214, 101214, 101214, 101214, 101214, 101214, 101214, 101214, 101214, 101214, 101214, 101214, 101214, 101214, 101214, 101214, 101214, 101214, 101214, 101214, 101214, 101214, 101214, 101214, 101214, 101214, 101214, 101214, 101214, 101214, 101214, 101214, 101214, 101214, 101214, 101214, 101214, 101214, 101214, 101214, 101214, 101214, 101214, 101214, 101214, 101214, 101214, 101214, 101214, 101214, 101214, 101214, 101214, 101214, 101214, 101214, 101214, 101214, 101214, 101214, 101214, 101214, 101214, 101214, 101214, 101214, 101214, 101214, 101214, 101214, 101214, 101214, 101214, 101214, 101214, 101214, 101214, 101214, 101214, 101214, 101214, 101214, 101214, 101214, 101214, 101214, 101214, 101214, 101214, 101214, 101214, 101214, 101214, 101214, 101214, 101214, 101214, 101214, 101214, 101214, 101214, 101214, 101214, 101214, 101214, 101214, 101214, 101214, 101214, 101214, 101214, 101214, 101214, 101214, 101214, 101214, 101214, 101214, 101214, 101214, 101214, 101214, 101214, 101214, 101214, 101214, 101214, 101214, 101214, 101214, 101214, 101214, 101214, 101214, 101214, 101214, 101214, 101214, 101214, 101214, 101214, 101214, 101214, 101214, 101214, 101214, 101214, 101214, 101214, 101214, 101214, 101214, 101214, 101214, 101214, 101214, 101214, 101214, 101214, 101214, 101214, 101214, 101214, 101214, 101214, 101214, 101214, 101214, 101214, 101214, 101214, 101214, 101214, 101214, 101214, 101214, 101214, 101214, 101214, 101214, 101214, 101214, 101214, 101214, 101214, 101214, 101214, 101214, 101214, 101214, 101214, 101214, 101214, 101214, 101214, 101214, 101214, 101214, 101214, 101214, 101214, 101214, 101214, 101214, 101214, 101214, 101214, 101214, 101214, 101214, 101214, 101214, 101214, 101214, 101214, 101214, 101214, 101214, 101214, 101214, 101214, 101214, 101214, 101214, 101214, 101214, 101214, 101214, 101214, 101214, 101214, 101214, 101214, 101214, 101214, 101214, 101214, 101214, 101214, 101214, 101214, 101214, 101214, 101214, 101214, 101214, 101214, 101214, 101214, 101214, 101214, 101214, 101214, 101214, 101214, 101214, 101214, 101214, 101214, 101214, 101214, 101214, 101214, 101214, 101214, 101214, 101214, 101214, 101214, 101214, 101214, 101214, 101214, 101214, 101214, 101214, 101214, 101214, 101214, 101214, 101214, 101214, 101214, 101214, 101214, 101214, 101214, 101214, 101214, 101214, 101214, 101214, 101214, 101214, 101214, 101214, 101214, 101214, 101214, 101214, 101214, 101214, 101214, 101214, 101214, 101214, 101214, 101214, 101214, 101214, 101214, 101214, 101214, 101214, 101214, 101214, 101214, 101214, 101214, 101214, 101214, 101214, 101214, 101214, 101214, 101214, 101214, 101214, 101214, 101214, 101214, 101214, 101214, 101214, 101214, 101214, 101214, 101214, 101214, 101214, 101214, 101214, 101214, 101214, 101214, 101214, 101214, 101214, 101214, 101214, 101214, 101214, 101214, 101214, 101214, 101214, 101214, 101214, 101214, 101214, 101214, 101214, 101214, 101214, 101214, 101214, 101214, 101214, 101214, 101214, 101214, 101214, 101214, 101214, 101214, 101214, 101214, 101214, 101214, 101214, 101214, 101214, 101214, 101214, 101214, 101214, 101214, 101214, 101214, 101214, 101214, 101214, 101214, 101214, 101214, 101214, 101214, 101214, 101214, 101214, 101214, 101214, 101214, 101214, 101214, 101214, 101214, 101214, 101214, 101214, 101214, 101214, 101214, 101214, 101214, 101214, 101214, 101214, 101214, 101214, 101214, 101214, 101214, 101214, 101214, 101214, 101214, 101214, 101214, 101214, 101214, 101214, 101214, 101214, 101214, 101214, 101214, 101214, 101214, 101214, 101214, 101214, 101214, 101214, 101214, 101214, 101214, 101214, 101214, 101214, 101214, 101214, 101214, 101214, 101214, 101214, 101214, 101214, 101214, 101214, 101214, 101214, 101214, 101214, 101214, 101214, 101214, 101214, 101214, 101214, 101214, 101214, 101214, 101214, 101214, 101214, 101214, 101214, 101214, 101214, 101214, 101214, 101214, 101214, 101214, 101214, 101214, 101214, 101214, 101214, 101214, 101214, 101214, 101214, 101214, 101214, 101214, 101214, 101214, 101214, 101214, 101214, 101214, 101214, 101214, 101214, 101214, 101214, 101214, 101214, 101214, 101214, 101214, 101214, 101214, 101214, 101214, 101214, 101214, 101214, 101214, 101214, 101214, 101214, 101214, 101214, 101214, 101214, 101214, 101214, 101214, 101214, 101214, 101214, 101214, 101214, 101214, 101214, 101214, 101214, 101214, 101214, 101214, 101214, 101214, 101214, 101214, 101214, 101214, 101214, 101214, 101214, 101214, 101214, 101214, 101214, 101214, 101214, 101214, 101214, 101214, 101214, 101214, 101214, 101214, 101214, 101214, 101214, 101214, 101214, 101214, 101214, 101214, 101214, 101214, 101214, 101214, 101214, 101214, 101214, 101214, 101214, 101214, 101214, 101214, 101214, 101214, 101214, 101214, 101214, 101214, 101214, 101214, 101214, 101214, 101214]
 no_trial_r = range(0, 700)

diff --git a/utils/plotParams.py b/utils/plotParams.py
@@ -2,19 +2,12 @@ import matplotlib.pyplot as plt
 
 plt.style.use('seaborn')
 
-plt.rcParams['font.family'] = 'serif'
 plt.rcParams['font.serif'] = 'Ubuntu'
 plt.rcParams['font.monospace'] = 'Ubuntu Mono'
-plt.rcParams['font.size'] = 10
-plt.rcParams['axes.labelsize'] = 10
 plt.rcParams['axes.labelweight'] = 'bold'
-plt.rcParams['axes.titlesize'] = 10
-plt.rcParams['xtick.labelsize'] = 8
-plt.rcParams['ytick.labelsize'] = 8
-plt.rcParams['legend.fontsize'] = 10
-plt.rcParams['figure.titlesize'] = 12
 
 fig, ax = plt.subplots()
+plt.subplots_adjust(right=1, top=1, wspace=0, hspace=0)
 
 no_params = [109494, 109081, 108986, 108986, 108280, 108280, 108083, 108083, 107859, 107547, 107536, 107228, 107228, 107228, 106855, 106855, 106855, 106855, 106289, 106289, 106289, 106046, 106046, 105978, 105978, 105978, 105978, 105384, 105384, 104794, 104794, 104794, 104794, 104794, 104794, 104538, 104538, 104374, 104374, 104333, 104333, 104235, 104223, 104223, 104223, 103806, 103806, 103806, 103479, 103479, 103479, 103479, 103479, 103479, 103479, 103479, 103479, 103479, 103479, 103479, 103479, 103479, 103080, 102404, 102404, 102404, 102404, 102404, 102404, 102404, 102404, 102404, 102169, 102169, 101907, 101907, 101907, 101907, 101185, 101185, 101185, 101185, 101185, 101185, 101185, 101185, 101185, 101185, 101114, 101114, 100945, 100945, 100819, 100670, 100670, 100037, 100037, 100037, 100037, 100037, 100037, 99815, 99815, 99814, 99767, 99609, 99609, 99609, 99609, 99566, 99489, 99471, 99421, 99421, 99361, 99134, 99134, 99134, 99134, 99134, 98901, 98901, 98901, 98886, 98840, 98840, 98840, 98837, 98824, 98810, 98810, 98810, 98792, 98792, 98792, 98779, 98779, 98779, 98779, 98779, 98779, 98779, 98779, 98779, 98779, 98779, 98779, 98779, 98779, 98779, 98779, 98779, 98779, 98779, 98779, 98779, 98779, 98779, 98779, 98779, 98779, 98779, 98779, 98779, 98779, 98779, 98779, 98779, 98779, 98779, 98779, 98779, 98779, 98779, 98779, 98779, 98779, 98779, 98779, 98779, 98779, 98779, 98779, 98779, 98779, 98761, 98761, 98734, 98700, 98700, 98616, 98616, 98616, 98589, 98445, 98445, 98445, 98445, 98445, 98445, 98445, 98445, 98445, 98445, 98445, 98425, 98425, 98425, 98425, 98425, 98425, 98425, 98425, 98425, 98425, 98425, 98425, 98425, 98425, 98425, 98425, 98425, 98425, 98425, 98425, 98425, 98425, 98425, 98425, 98425, 98425, 98425, 98425, 98425, 98425, 98425, 98425, 98425, 98425, 98425, 98425, 98425, 98425, 98425, 98425, 98425, 98425, 98425, 98425, 98425, 98425, 98425, 98425, 98425, 98425, 98425, 98425, 98425, 98425, 98425, 98425, 98425, 98425, 98425, 98425, 98425, 98425, 98425, 98425, 98425, 98425, 98294, 98294, 98294, 98294, 98294, 98231, 98231, 98231, 98231, 97820, 97820, 97820, 97820, 97820, 97820, 97806, 97806, 97656, 97656, 97573, 97554, 97452, 97452, 97387, 97385, 97318, 97286, 97217, 97217, 97166, 97166, 97166, 97019, 96912, 96912, 96912, 96912, 96875, 96800, 96800, 96800, 96797, 96797, 96797, 96797, 96797, 96797, 96797, 96647, 96647, 96647, 96591, 96591, 96591, 96591, 96591, 96591, 96591, 96591, 96591, 96591, 96591, 96591, 96591, 96591, 96591, 96591, 96591, 96591, 96591, 96591, 96591, 96591, 96591, 96591, 96591, 96591, 96591, 96591, 96591, 96591, 96591, 96591, 96591, 96591, 96591, 96591, 96591, 96591, 96591, 96591, 96591, 96591, 96591, 96591, 96591, 96591, 96591, 96591, 96591, 96591, 96591, 96591, 96591, 96591, 96591, 96591, 96591, 96591, 96591, 96591, 96591, 96591, 96591, 96591, 96591, 96591, 96591, 96591, 96591, 96591, 96591, 96591, 96591, 96591, 96591, 96591, 96591, 96591]
 no_params_r = range(0, 400)

diff --git a/utils/plotMutations.py b/utils/plotMutations.py
@@ -2,19 +2,12 @@ import matplotlib.pyplot as plt
 
 plt.style.use('seaborn')
 
-plt.rcParams['font.family'] = 'serif'
 plt.rcParams['font.serif'] = 'Ubuntu'
 plt.rcParams['font.monospace'] = 'Ubuntu Mono'
-plt.rcParams['font.size'] = 10
-plt.rcParams['axes.labelsize'] = 10
 plt.rcParams['axes.labelweight'] = 'bold'
-plt.rcParams['axes.titlesize'] = 10
-plt.rcParams['xtick.labelsize'] = 8
-plt.rcParams['ytick.labelsize'] = 8
-plt.rcParams['legend.fontsize'] = 10
-plt.rcParams['figure.titlesize'] = 12
 
 fig, ax = plt.subplots()
+plt.subplots_adjust(right=1, top=1, wspace=0, hspace=0)
 
 inverse = [109494, 109081, 108986, 108986, 108280, 108280, 108083, 108083, 107859, 107547, 107536, 107228, 107228, 107228, 106855, 106855, 106855, 106855, 106289, 106289, 106289, 106046, 106046, 105978, 105978, 105978, 105978, 105384, 105384, 104794, 104794, 104794, 104794, 104794, 104794, 104538, 104538, 104374, 104374, 104333, 104333, 104235, 104223, 104223, 104223, 103806, 103806, 103806, 103479, 103479, 103479, 103479, 103479, 103479, 103479, 103479, 103479, 103479, 103479, 103479, 103479, 103479, 103080, 102404, 102404, 102404, 102404, 102404, 102404, 102404, 102404, 102404, 102169, 102169, 101907, 101907, 101907, 101907, 101185, 101185, 101185, 101185, 101185, 101185, 101185, 101185, 101185, 101185, 101114, 101114, 100945, 100945, 100819, 100670, 100670, 100037, 100037, 100037, 100037, 100037, 100037, 99815, 99815, 99814, 99767, 99609, 99609, 99609, 99609, 99566, 99489, 99471, 99421, 99421, 99361, 99134, 99134, 99134, 99134, 99134, 98901, 98901, 98901, 98886, 98840, 98840, 98840, 98837, 98824, 98810, 98810, 98810, 98792, 98792, 98792, 98779, 98779, 98779, 98779, 98779, 98779, 98779, 98779, 98779, 98779, 98779, 98779, 98779, 98779, 98779, 98779, 98779, 98779, 98779, 98779, 98779, 98779, 98779, 98779, 98779, 98779, 98779, 98779, 98779, 98779, 98779, 98779, 98779, 98779, 98779, 98779, 98779, 98779, 98779, 98779, 98779, 98779, 98779, 98779, 98779, 98779, 98779, 98779, 98779, 98779, 98761, 98761, 98734, 98700, 98700, 98616, 98616, 98616, 98589, 98445, 98445, 98445, 98445, 98445, 98445, 98445, 98445, 98445, 98445, 98445, 98425, 98425, 98425, 98425, 98425, 98425, 98425, 98425, 98425, 98425, 98425, 98425, 98425, 98425, 98425, 98425, 98425, 98425, 98425, 98425, 98425, 98425, 98425, 98425, 98425, 98425, 98425, 98425, 98425, 98425, 98425, 98425, 98425, 98425, 98425, 98425, 98425, 98425, 98425, 98425, 98425, 98425, 98425, 98425, 98425, 98425, 98425, 98425, 98425, 98425, 98425, 98425, 98425, 98425, 98425, 98425, 98425, 98425, 98425, 98425, 98425, 98425, 98425, 98425, 98425, 98425, 98294, 98294, 98294, 98294, 98294, 98231, 98231, 98231, 98231, 97820, 97820, 97820, 97820, 97820, 97820, 97806, 97806, 97656, 97656, 97573, 97554, 97452, 97452, 97387, 97385, 97318, 97286, 97217, 97217, 97166, 97166, 97166, 97019, 96912, 96912, 96912, 96912, 96875, 96800, 96800, 96800, 96797, 96797, 96797, 96797, 96797, 96797, 96797, 96647, 96647, 96647, 96591, 96591, 96591, 96591, 96591, 96591, 96591, 96591, 96591, 96591, 96591, 96591, 96591, 96591, 96591, 96591, 96591, 96591, 96591, 96591, 96591, 96591, 96591]
 inverse_r = range(0, 345)

diff --git a/utils/plotCrossovers.py b/utils/plotCrossovers.py
@@ -2,19 +2,12 @@ import matplotlib.pyplot as plt
 
 plt.style.use('seaborn')
 
-plt.rcParams['font.family'] = 'serif'
 plt.rcParams['font.serif'] = 'Ubuntu'
 plt.rcParams['font.monospace'] = 'Ubuntu Mono'
-plt.rcParams['font.size'] = 10
-plt.rcParams['axes.labelsize'] = 10
 plt.rcParams['axes.labelweight'] = 'bold'
-plt.rcParams['axes.titlesize'] = 10
-plt.rcParams['xtick.labelsize'] = 8
-plt.rcParams['ytick.labelsize'] = 8
-plt.rcParams['legend.fontsize'] = 10
-plt.rcParams['figure.titlesize'] = 12
 
 fig, ax = plt.subplots()
+plt.subplots_adjust(right=1, top=1, wspace=0, hspace=0)
 
 ordered = [109494, 109081, 108986, 108986, 108280, 108280, 108083, 108083, 107859, 107547, 107536, 107228, 107228, 107228, 106855, 106855, 106855, 106855, 106289, 106289, 106289, 106046, 106046, 105978, 105978, 105978, 105978, 105384, 105384, 104794, 104794, 104794, 104794, 104794, 104794, 104538, 104538, 104374, 104374, 104333, 104333, 104235, 104223, 104223, 104223, 103806, 103806, 103806, 103479, 103479, 103479, 103479, 103479, 103479, 103479, 103479, 103479, 103479, 103479, 103479, 103479, 103479, 103080, 102404, 102404, 102404, 102404, 102404, 102404, 102404, 102404, 102404, 102169, 102169, 101907, 101907, 101907, 101907, 101185, 101185, 101185, 101185, 101185, 101185, 101185, 101185, 101185, 101185, 101114, 101114, 100945, 100945, 100819, 100670, 100670, 100037, 100037, 100037, 100037, 100037, 100037, 99815, 99815, 99814, 99767, 99609, 99609, 99609, 99609, 99566, 99489, 99471, 99421, 99421, 99361, 99134, 99134, 99134, 99134, 99134, 98901, 98901, 98901, 98886, 98840, 98840, 98840, 98837, 98824, 98810, 98810, 98810, 98792, 98792, 98792, 98779, 98779, 98779, 98779, 98779, 98779, 98779, 98779, 98779, 98779, 98779, 98779, 98779, 98779, 98779, 98779, 98779, 98779, 98779, 98779, 98779, 98779, 98779, 98779, 98779, 98779, 98779, 98779, 98779, 98779, 98779, 98779, 98779, 98779, 98779, 98779, 98779, 98779, 98779, 98779, 98779, 98779, 98779, 98779, 98779, 98779, 98779, 98779, 98779, 98779, 98761, 98761, 98734, 98700, 98700, 98616, 98616, 98616, 98589, 98445, 98445, 98445, 98445, 98445, 98445, 98445, 98445, 98445, 98445, 98445, 98425, 98425, 98425, 98425, 98425, 98425, 98425, 98425, 98425, 98425, 98425, 98425, 98425, 98425, 98425, 98425, 98425, 98425, 98425, 98425, 98425, 98425, 98425, 98425, 98425, 98425, 98425, 98425, 98425, 98425, 98425, 98425, 98425, 98425, 98425, 98425, 98425, 98425, 98425, 98425, 98425, 98425, 98425, 98425, 98425, 98425, 98425, 98425, 98425, 98425, 98425, 98425, 98425, 98425, 98425, 98425, 98425, 98425, 98425, 98425, 98425, 98425, 98425, 98425, 98425, 98425, 98294, 98294, 98294, 98294, 98294, 98231, 98231, 98231, 98231, 97820, 97820, 97820, 97820, 97820, 97820, 97806, 97806, 97656, 97656, 97573, 97554, 97452, 97452, 97387, 97385, 97318, 97286, 97217, 97217, 97166, 97166, 97166, 97019, 96912, 96912, 96912, 96912, 96875, 96800, 96800, 96800, 96797, 96797, 96647, 96647, 96647, 96591, 96591, 96591, 96591, 96576, 96576, 96576, 96576, 96576, 96576, 96576, 96576, 96576 ]
 ordered_r = range(0, 330)

diff --git a/utils/plotSelections.py b/utils/plotSelections.py
@@ -2,19 +2,12 @@ import matplotlib.pyplot as plt
 
 plt.style.use('seaborn')
 
-plt.rcParams['font.family'] = 'serif'
 plt.rcParams['font.serif'] = 'Ubuntu'
 plt.rcParams['font.monospace'] = 'Ubuntu Mono'
-plt.rcParams['font.size'] = 10
-plt.rcParams['axes.labelsize'] = 10
 plt.rcParams['axes.labelweight'] = 'bold'
-plt.rcParams['axes.titlesize'] = 10
-plt.rcParams['xtick.labelsize'] = 8
-plt.rcParams['ytick.labelsize'] = 8
-plt.rcParams['legend.fontsize'] = 10
-plt.rcParams['figure.titlesize'] = 12
 
 fig, ax = plt.subplots()
+plt.subplots_adjust(right=1, top=1, wspace=0, hspace=0)
 
 tournam = [109494, 109081, 108986, 108986, 108280, 108280, 108083, 108083, 107859, 107547, 107536, 107228, 107228, 107228, 106855, 106855, 106855, 106855, 106289, 106289, 106289, 106046, 106046, 105978, 105978, 105978, 105978, 105384, 105384, 104794, 104794, 104794, 104794, 104794, 104794, 104538, 104538, 104374, 104374, 104333, 104333, 104235, 104223, 104223, 104223, 103806, 103806, 103806, 103479, 103479, 103479, 103479, 103479, 103479, 103479, 103479, 103479, 103479, 103479, 103479, 103479, 103479, 103080, 102404, 102404, 102404, 102404, 102404, 102404, 102404, 102404, 102404, 102169, 102169, 101907, 101907, 101907, 101907, 101185, 101185, 101185, 101185, 101185, 101185, 101185, 101185, 101185, 101185, 101114, 101114, 100945, 100945, 100819, 100670, 100670, 100037, 100037, 100037, 100037, 100037, 100037, 99815, 99815, 99814, 99767, 99609, 99609, 99609, 99609, 99566, 99489, 99471, 99421, 99421, 99361, 99134, 99134, 99134, 99134, 99134, 98901, 98901, 98901, 98886, 98840, 98840, 98840, 98837, 98824, 98810, 98810, 98810, 98792, 98792, 98792, 98779, 98779, 98779, 98779, 98779, 98779, 98779, 98779, 98779, 98779, 98779, 98779, 98779, 98779, 98779, 98779, 98779, 98779, 98779, 98779, 98779, 98779, 98779, 98779, 98779, 98779, 98779, 98779, 98779, 98779, 98779, 98779, 98779, 98779, 98779, 98779, 98779, 98779, 98779, 98779, 98779, 98779, 98779, 98779, 98779, 98779, 98779, 98779, 98779, 98779, 98761, 98761, 98734, 98700, 98700, 98616, 98616, 98616, 98589, 98445, 98445, 98445, 98445, 98445, 98445, 98445, 98445, 98445, 98445, 98445, 98425, 98425, 98425, 98425, 98425, 98425, 98425, 98425, 98425, 98425, 98425, 98425, 98425, 98425, 98425, 98425, 98425, 98425, 98425, 98425, 98425, 98425, 98425, 98425, 98425, 98425, 98425, 98425, 98425, 98425, 98425, 98425, 98425, 98425, 98425, 98425, 98425, 98425, 98425, 98425, 98425, 98425, 98425, 98425, 98425]
 tournam_r = range(0, 250)

diff --git a/utils/plotReorder.py b/utils/plotReorder.py
@@ -2,19 +2,12 @@ import matplotlib.pyplot as plt
 
 plt.style.use('seaborn')
 
-plt.rcParams['font.family'] = 'serif'
 plt.rcParams['font.serif'] = 'Ubuntu'
 plt.rcParams['font.monospace'] = 'Ubuntu Mono'
-plt.rcParams['font.size'] = 10
-plt.rcParams['axes.labelsize'] = 10
 plt.rcParams['axes.labelweight'] = 'bold'
-plt.rcParams['axes.titlesize'] = 10
-plt.rcParams['xtick.labelsize'] = 8
-plt.rcParams['ytick.labelsize'] = 8
-plt.rcParams['legend.fontsize'] = 10
-plt.rcParams['figure.titlesize'] = 12
 
 fig, ax = plt.subplots()
+plt.subplots_adjust(right=1, top=1, wspace=0, hspace=0)
 
 no_reorder = [109494, 109081, 108986, 108986, 108280, 108280, 108083, 107859, 107547, 107536, 107228, 107228, 107228, 106855, 106855, 106855, 106855, 106289, 106289, 106289, 106046, 106046, 105978, 105978, 105978, 105978, 105384, 105384, 104794, 104794, 104794, 104794, 104794, 104794, 104538, 104538, 104374, 104374, 104333, 104333, 104235, 104223, 104223, 104223, 103806, 103806, 103806, 103479, 103479, 103479, 103479, 103479, 103479, 103479, 103479, 103479, 103479, 103479, 103479, 103479, 103479, 103080, 102404, 102404, 102404, 102404, 102404, 102404, 102404, 102404, 102404, 102169, 102169, 101907, 101907, 101907, 101907, 101185, 101185, 101185, 101185, 101185, 101185, 101185, 101185, 101185, 101185, 101114, 101114, 100945, 100945, 100819, 100670, 100670, 100037, 100037, 100037, 100037, 100037, 100037]
 no_reorder_r = range(0, 100)

diff --git a/utils/plotOptimizersComparison7501000.py b/utils/plotOptimizersComparison7501000.py
@@ -4,17 +4,11 @@ import matplotlib.pyplot as plt
 
 plt.style.use('seaborn')
 
-plt.rcParams['font.family'] = 'serif'
 plt.rcParams['font.serif'] = 'Ubuntu'
 plt.rcParams['font.monospace'] = 'Ubuntu Mono'
-plt.rcParams['font.size'] = 10
-plt.rcParams['axes.labelsize'] = 10
 plt.rcParams['axes.labelweight'] = 'bold'
-plt.rcParams['axes.titlesize'] = 10
-plt.rcParams['xtick.labelsize'] = 8
-plt.rcParams['ytick.labelsize'] = 8
-plt.rcParams['legend.fontsize'] = 10
-plt.rcParams['figure.titlesize'] = 12
+
+plt.subplots_adjust(right=1, top=1, wspace=0, hspace=0)
 
 algs = (r"Bez optimalizace", r"Optimalizace cesty" + "\n" +"(MMAS, 66.11%) ", r"Optimalizace rozložení" + "\n" + "(GA, 67.26%)", r"Kombinace optimalizací" + "\n" + "(MMAS+GA, 54.8%)")
 

diff --git a/utils/plotOptimizersComparison.py b/utils/plotOptimizersComparison.py
@@ -4,17 +4,11 @@ import matplotlib.pyplot as plt
 
 plt.style.use('seaborn')
 
-plt.rcParams['font.family'] = 'serif'
 plt.rcParams['font.serif'] = 'Ubuntu'
 plt.rcParams['font.monospace'] = 'Ubuntu Mono'
-plt.rcParams['font.size'] = 10
-plt.rcParams['axes.labelsize'] = 10
 plt.rcParams['axes.labelweight'] = 'bold'
-plt.rcParams['axes.titlesize'] = 10
-plt.rcParams['xtick.labelsize'] = 8
-plt.rcParams['ytick.labelsize'] = 8
-plt.rcParams['legend.fontsize'] = 10
-plt.rcParams['figure.titlesize'] = 12
+
+plt.subplots_adjust(right=1, top=1, wspace=0, hspace=0)
 
 algs = (r"Bez optimalizace", r"Optimalizace cesty" + "\n" +"(MMAS, 59.4%) ", r"Optimalizace rozložení" + "\n" + "(GA, 57.0%)", r"Kombinace Optimalizací" + "\n" + "(MMAS+GA, 36.9%)")
 

diff --git a/utils/plotToolTest.py b/utils/plotToolTest.py
@@ -4,17 +4,11 @@ import matplotlib.pyplot as plt
 
 plt.style.use('seaborn')
 
-plt.rcParams['font.family'] = 'serif'
 plt.rcParams['font.serif'] = 'Ubuntu'
 plt.rcParams['font.monospace'] = 'Ubuntu Mono'
-plt.rcParams['font.size'] = 10
-plt.rcParams['axes.labelsize'] = 10
 plt.rcParams['axes.labelweight'] = 'bold'
-plt.rcParams['axes.titlesize'] = 10
-plt.rcParams['xtick.labelsize'] = 8
-plt.rcParams['ytick.labelsize'] = 8
-plt.rcParams['legend.fontsize'] = 10
-plt.rcParams['figure.titlesize'] = 12
+
+plt.subplots_adjust(right=1, top=1, wspace=0, hspace=0)
 
 algs = ('GA', 'ABC', 'DE', 'Battista a spol', 'PSO', 'RAND', 'Před optimalizací')
 
